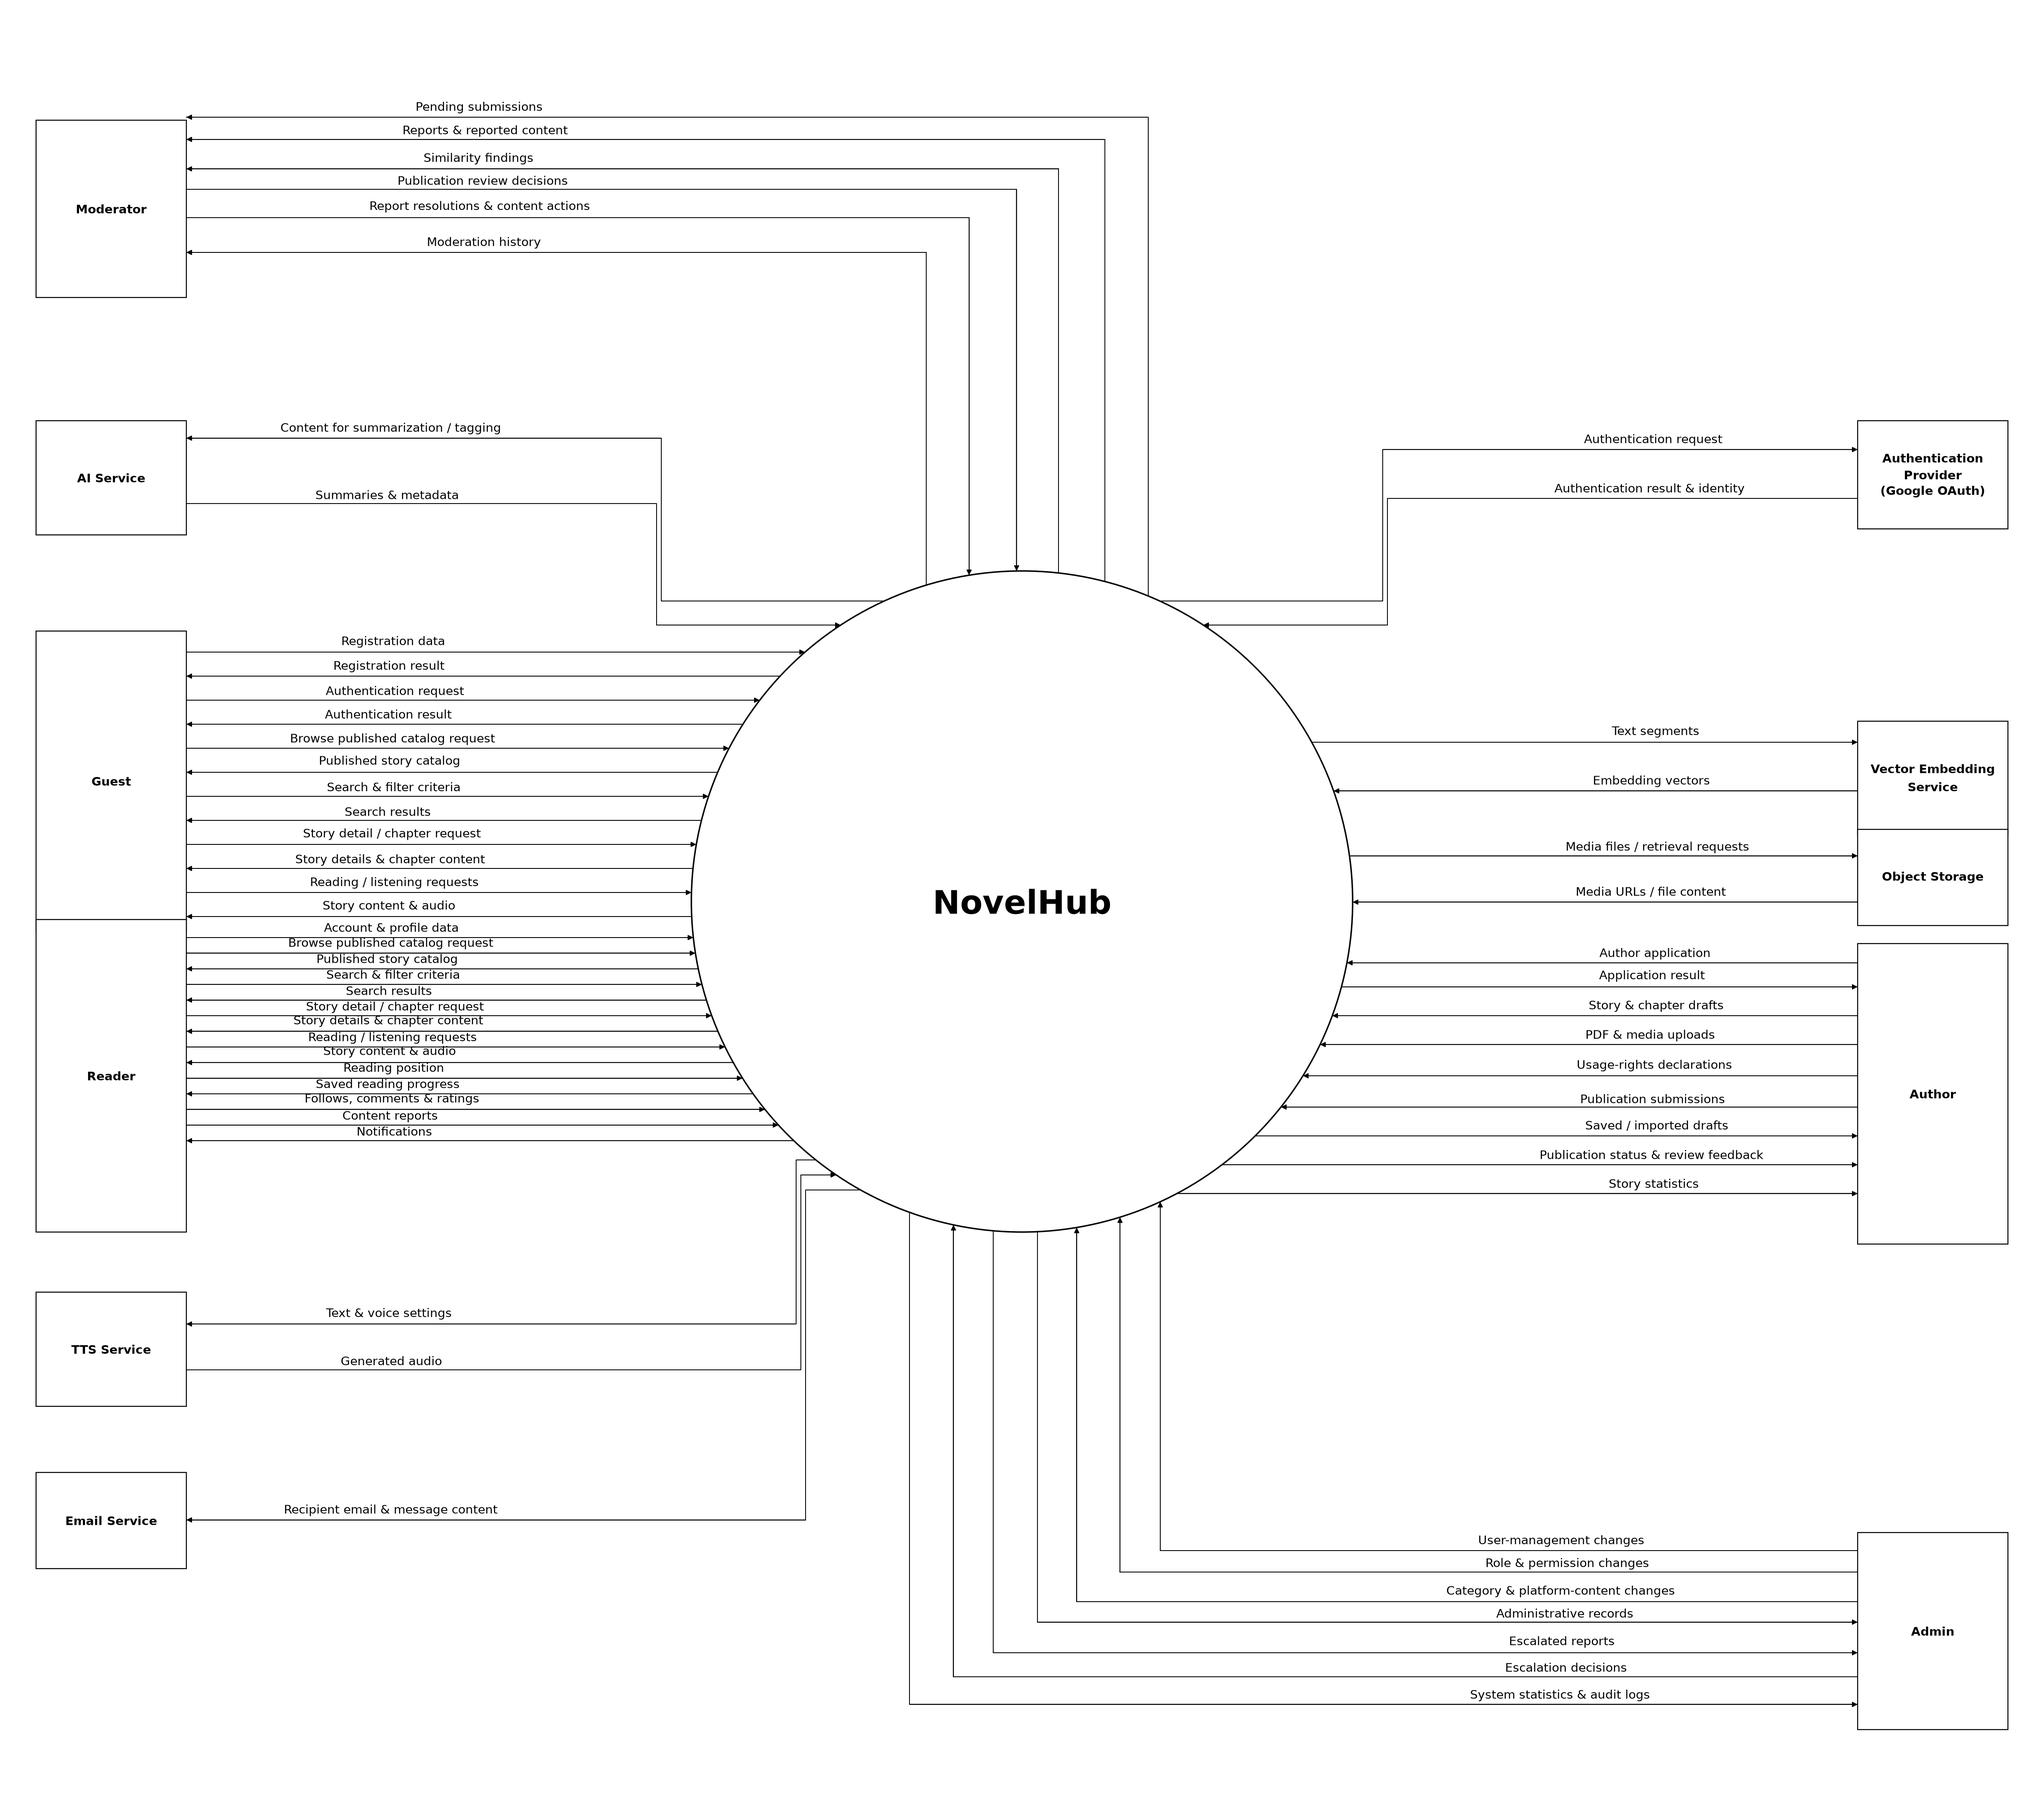
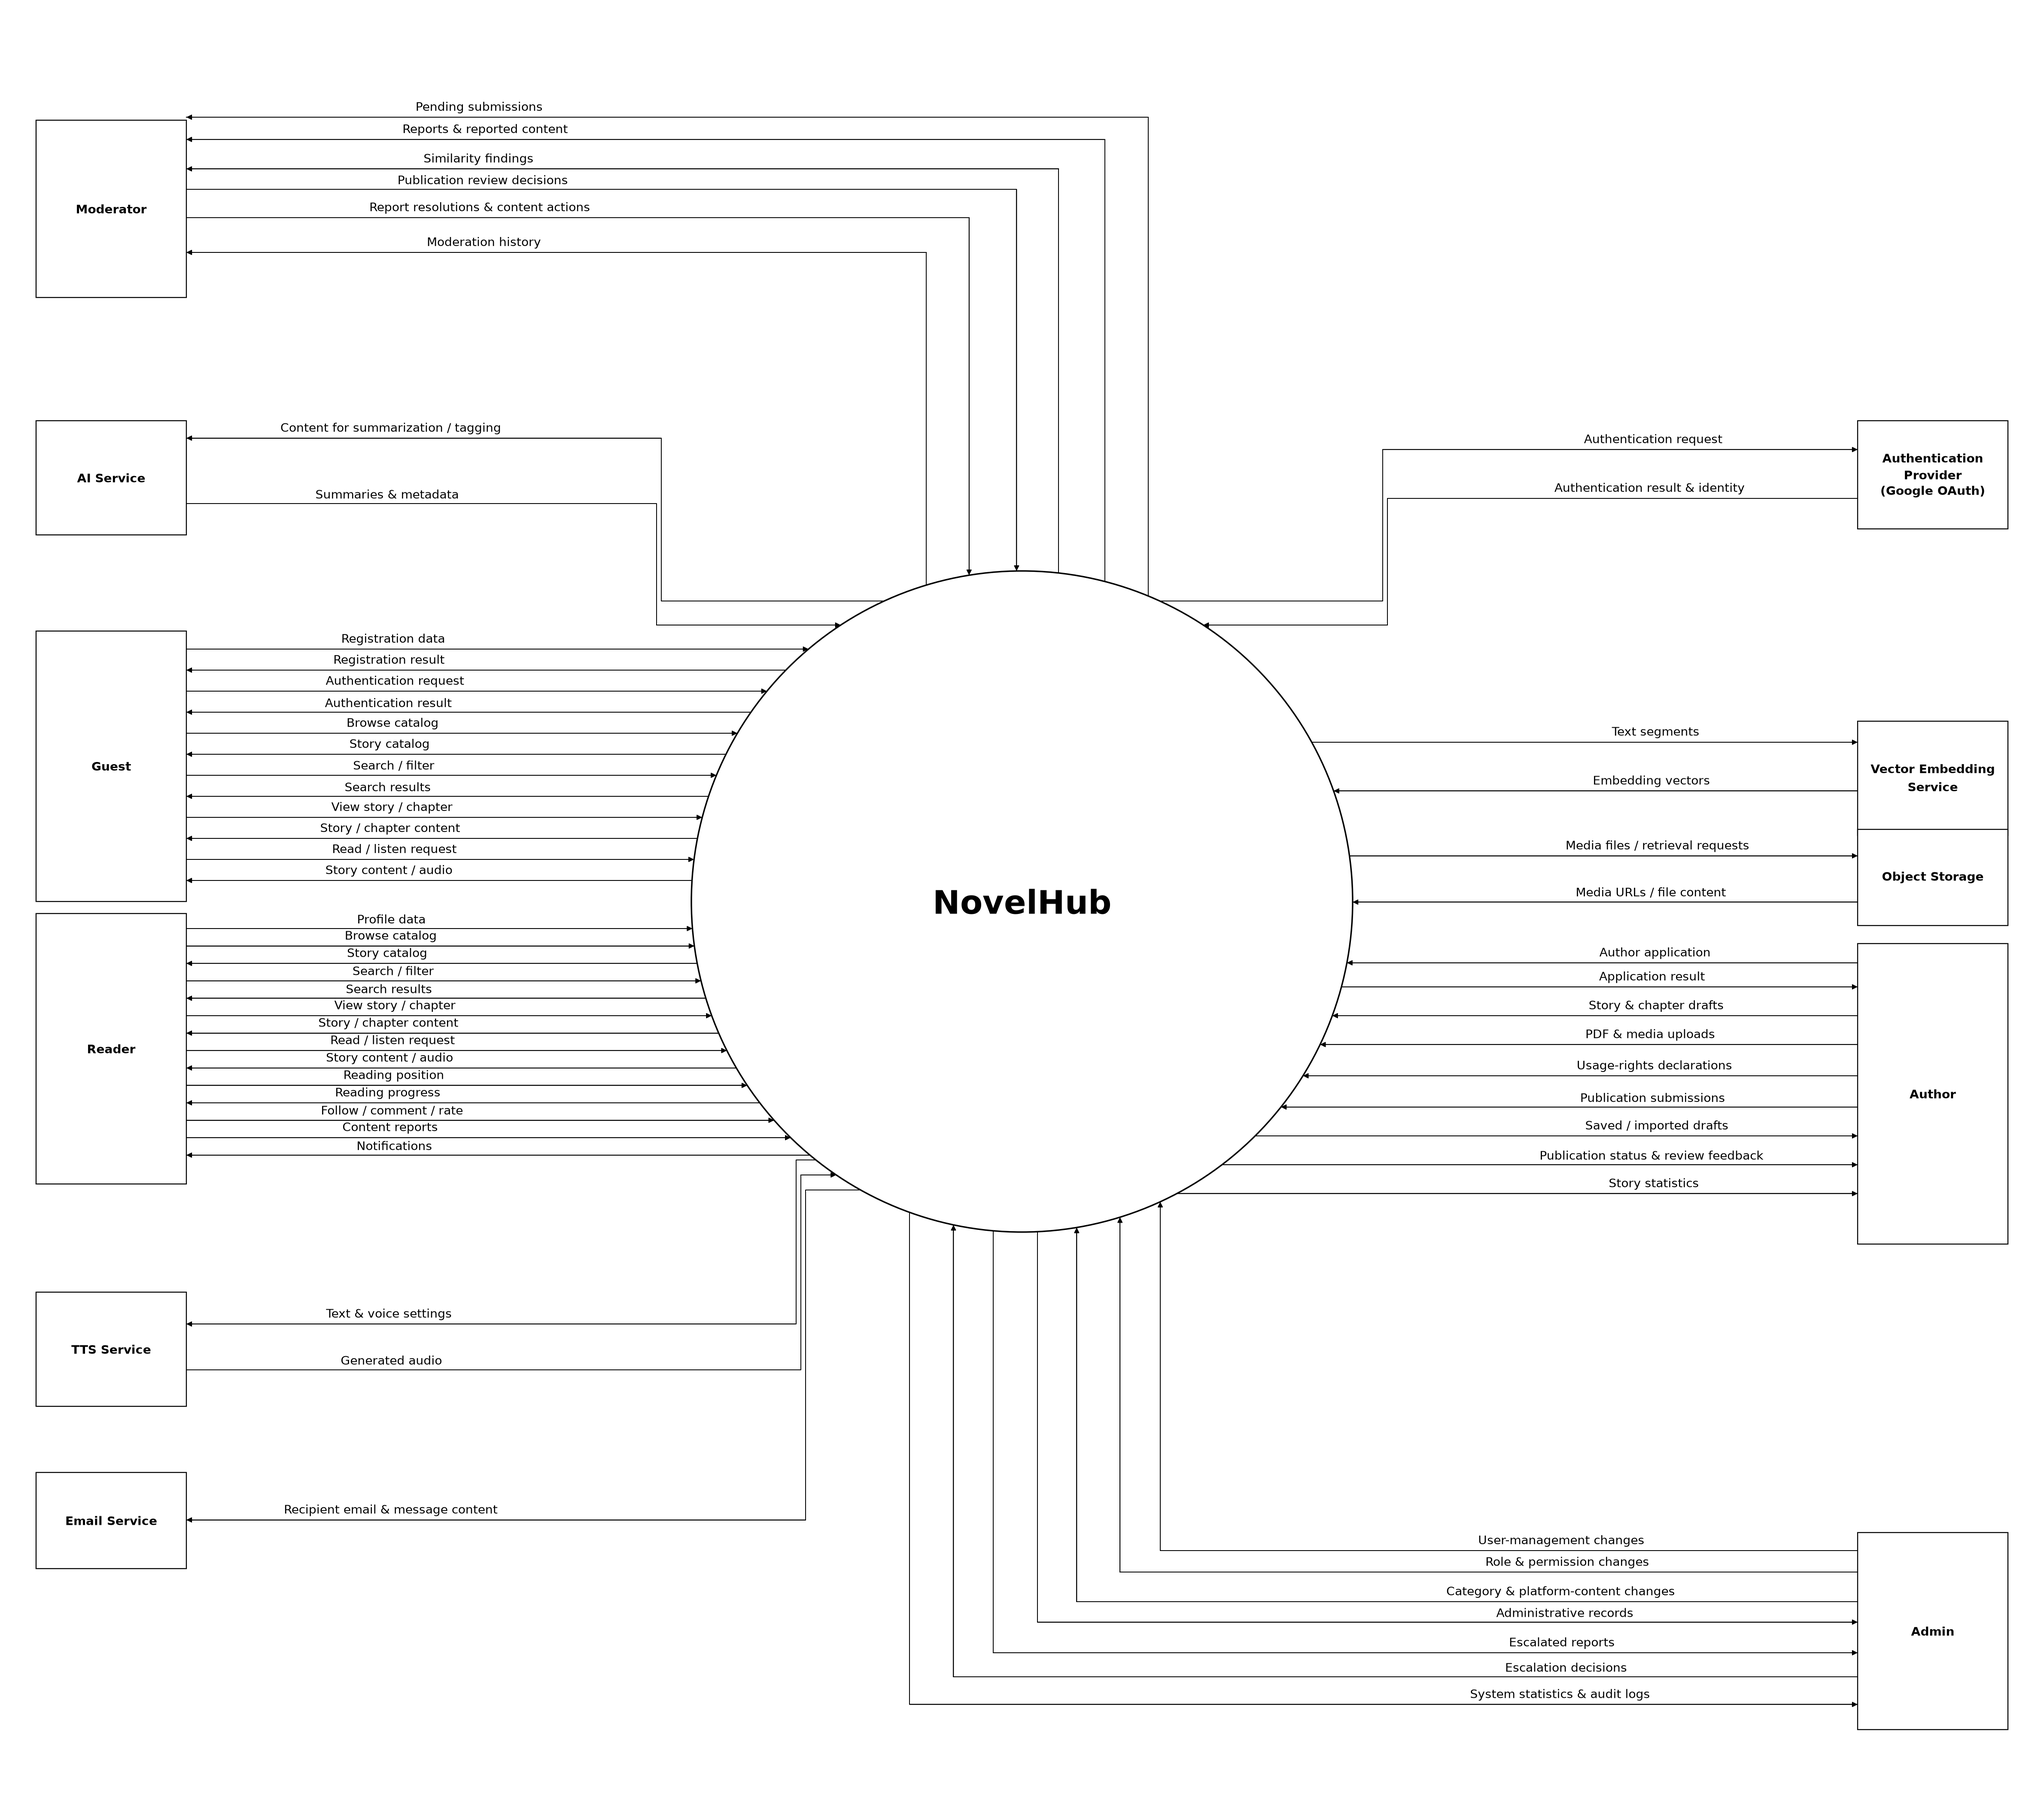
refactor(diagram): compact Reader Guest flows

Changed region(s): [[0.0933, 0.3431, 0.3731, 0.655], [0.2176, 0.0624, 0.2798, 0.1248]]

diff --git a/gen_context.py b/gen_context.py
@@ -12,18 +12,18 @@ INK='#000000'; MUTED='#000000'; BLUE='#000000'; TEAL='#000000'
 # in/out are relative to NovelHub. Each label describes one data flow.
 E={
 'reader':('Reader','actor',[
-('in','Account & profile data'),
-('in','Browse published catalog request'),
-('out','Published story catalog'),
-('in','Search & filter criteria'),
+('in','Profile data'),
+('in','Browse catalog'),
+('out','Story catalog'),
+('in','Search / filter'),
 ('out','Search results'),
-('in','Story detail / chapter request'),
-('out','Story details & chapter content'),
-('in','Reading / listening requests'),
-('out','Story content & audio'),
+('in','View story / chapter'),
+('out','Story / chapter content'),
+('in','Read / listen request'),
+('out','Story content / audio'),
 ('in','Reading position'),
-('out','Saved reading progress'),
-('in','Follows, comments & ratings'),
+('out','Reading progress'),
+('in','Follow / comment / rate'),
 ('in','Content reports'),
 ('out','Notifications')]),
 'guest':('Guest','actor',[
@@ -31,14 +31,14 @@ E={
 ('out','Registration result'),
 ('in','Authentication request'),
 ('out','Authentication result'),
-('in','Browse published catalog request'),
-('out','Published story catalog'),
-('in','Search & filter criteria'),
+('in','Browse catalog'),
+('out','Story catalog'),
+('in','Search / filter'),
 ('out','Search results'),
-('in','Story detail / chapter request'),
-('out','Story details & chapter content'),
-('in','Reading / listening requests'),
-('out','Story content & audio')]),
+('in','View story / chapter'),
+('out','Story / chapter content'),
+('in','Read / listen request'),
+('out','Story content / audio')]),
 'author':('Author','actor',[
 ('in','Author application'),
 ('out','Application result'),
@@ -79,8 +79,8 @@ E={
 assert sum(len(v[2]) for v in E.values()) == 59
 boxes={
  'oauth':(3090,700,250,180),
- 'guest':(60,1050,250,500),
- 'reader':(60,1530,250,520),
+ 'guest':(60,1050,250,450),
+ 'reader':(60,1520,250,450),
  'ai':(60,700,250,190),
  'tts':(60,2150,250,190),
  'embedding':(3090,1200,250,190),
@@ -92,8 +92,8 @@ boxes={
 }
  # Keep side ports inside the circle's vertical span so most connectors stay straight.
 port_offsets={
- 'guest':[35,75,115,155,195,235,275,315,355,395,435,475],
- 'reader':[30,56,82,108,134,160,186,212,238,264,290,316,342,368],
+ 'guest':[30,65,100,135,170,205,240,275,310,345,380,415],
+ 'reader':[25,54,83,112,141,170,199,228,257,286,315,344,373,402],
  'author':[32,72,120,168,220,272,320,368,416],
  'oauth':[48,129], 'embedding':[35,116], 'storage':[44,121],
  'ai':[29,138], 'tts':[53,129], 'email':[79],
@@ -101,7 +101,7 @@ port_offsets={
 # Small deterministic offsets keep the layout from feeling mechanically perfect
 # without sacrificing its visible alignment.
 MICRO_X=(0,-6,4,-3,7,-4,3,-2,5,-5,2,-1,6,-3,1)
-MICRO_Y=(0,1,-1,0,2,-1,1,-2,0,1,-1,2,0,-1,1)
+MICRO_Y=(0,0,0,0,0,0,0,0,0,0,0,0,0,0,0)
 MICRO_BEND=(0,2,-1,3,-2,1,-3,2,-1,0,2,-2,1,-1,3)
 flows=[]
 for names,side in [(['ai','guest','reader','tts','email'],'L'),(['oauth','embedding','storage','author'],'R')]:
